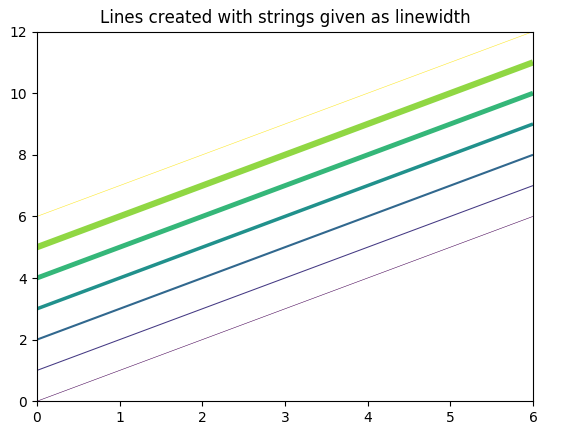
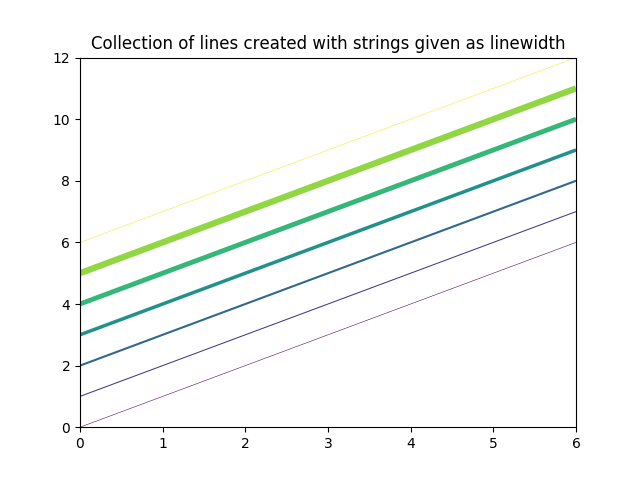
added 1 example

diff --git a/D5/relative_linewidth_markersize_values/doc/demo/collections_example.py b/D5/relative_linewidth_markersize_values/doc/demo/collections_example.py
@@ -1,0 +1,20 @@
+import matplotlib.pyplot as plt
+from matplotlib.collections import LineCollection
+import numpy as np
+
+N = 7
+x= np.arange(N)
+ys = [x + i for i in x]
+
+fig,ax = plt.subplots()
+ax.set_xlim(np.min(x), np.max(x))
+ax.set_ylim(np.min(ys), np.max(ys))
+
+line_segments = LineCollection([np.column_stack([x,y]) for y in ys], linewidths=('xx-thin', 'x-thin',
+	'medium', 'thick', 'x-thick', 'xx-thick'))
+
+line_segments.set_array(x)
+ax.add_collection(line_segments)
+plt.title('Collection of lines created with strings given as linewidth')
+
+plt.show()
